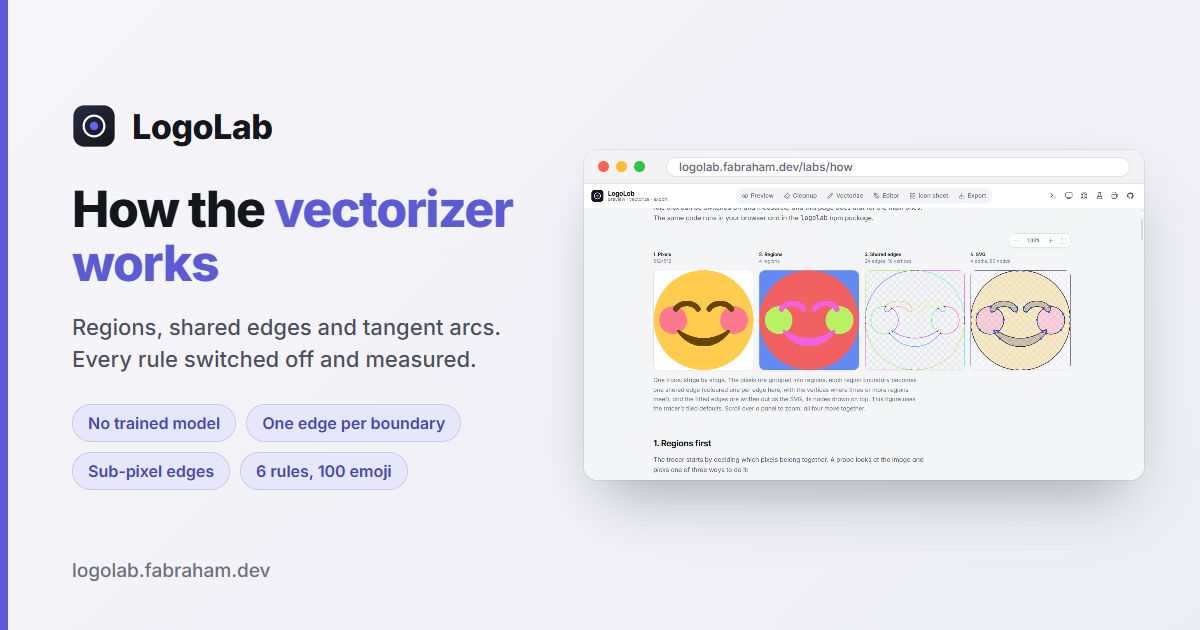
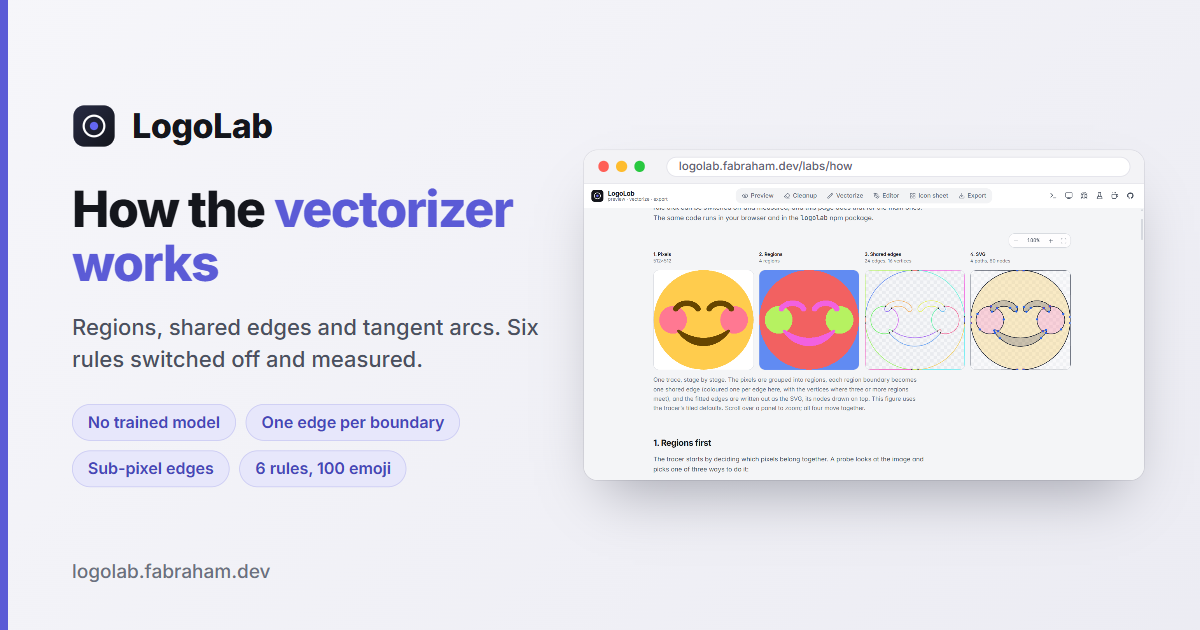
fix(labs): correct claims the audit found
- VTracer swept was picked on the in-sample corpora, not "these cases" or held-out ones
- /labs/how no longer says no rule was tuned on the held-out emoji: throughPairs and
  lineTangents were accepted on them
- the corner veto changes 13 of 100 emoji and costs a few kinks there
- a significant cell gets the decimals it needs instead of a bold "≈0"
- moved counts are per score; the footer names the fillets runs at 3469a57
- "every rule" copy says the main/six rules; card re-rendered
- Hoshyari et al. author order, Potrace GPL-2.0-or-later, §44 interval and --fit/SegGrid wording

diff --git a/src/components/labs/how/HowLab.tsx b/src/components/labs/how/HowLab.tsx
@@ -11,6 +11,7 @@ import { Figure, Section } from '../bench/articleParts'
 import { type CaseMode, DRAWING_ROWS, type ScoreRow, SvgArt } from '../bench/figure'
 import { HOW } from './howItWorks.generated'
 import type { HowRule } from './howTypes'
+import type { ShowPaired } from '../bench/showcaseTypes'
 
 /**
  * /labs/how: how the tracer works, one rule at a time.
@@ -72,6 +73,15 @@ const worse = better
 const fmt = (v: number | null, d: number): string => (v === null ? '—' : v.toFixed(d))
 const sign = (v: number, d: number): string =>
   Math.abs(v) < 0.5 * 10 ** -d ? '≈0' : `${v > 0 ? '+' : ''}${v.toFixed(d)}`
+/** Decimals for a paired cell: a significant change gets places until neither its mean nor its
+ *  interval ends round to zero, or a bold cell would read "≈0 [-0.001, -0.000]". */
+const placesFor = (c: ShowPaired, d: number): number => {
+  if (!c.significant) return d
+  const vals = [c.meanDiff, c.lo, c.hi].filter((v): v is number => typeof v === 'number')
+  let p = d
+  while (p < d + 3 && vals.some((v) => Math.abs(v) < 0.5 * 10 ** -p)) p++
+  return p
+}
 
 const A = ({ href, children }: { href: string; children: ReactNode }) => (
   <a className="text-accent underline-offset-2 hover:underline" href={href} target="_blank" rel="noreferrer">
@@ -176,8 +186,9 @@ export default function HowLab() {
         }
         after={
           <p>
-            On emoji the veto almost never fires. It exists for art like this checkerboard: with it off, the small cells
-            in the lower-right quarter are close enough to circles for the snap to take them for circles.
+            On the emoji it changes 13 of the 100 traces, and there it costs a little: with it on they carry slightly
+            more kinks and colour error. It exists for art like this checkerboard: with it off, the small cells in the
+            lower-right quarter are close enough to circles for the snap to take them for circles.
           </p>
         }
       />
@@ -290,7 +301,7 @@ export default function HowLab() {
           emoji. The table gives the mean change per icon with the rule off, and a 95% interval from a paired bootstrap.
           The arrow on each column says which way is better, and a rule helps where switching it off moves a score
           against the arrow. Bold marks a change whose interval excludes zero, and the small number after the interval
-          is how many of the {HOW.heldOutCases} emoji the rule changes at all.
+          is how many of the {HOW.heldOutCases} emoji that score changes on.
         </p>
         <WorthTable />
         <p>
@@ -298,8 +309,9 @@ export default function HowLab() {
           <Link className="text-accent underline-offset-2 hover:underline" to="/labs/bench">
             the benchmark
           </Link>
-          , which no rule was tuned on. Each rule was built against the in-sample test cases, so on these emoji a rule
-          can move fewer cases than it was written for, or none.
+          . Most rules were built against the in-sample test cases, so on these emoji a rule can move fewer cases than
+          it was written for, or none. Two were not: through junctions and line tangents were reviewed and accepted on
+          these same emoji, so their rows are not out-of-sample evidence.
         </p>
       </Section>
 
@@ -356,7 +368,7 @@ export default function HowLab() {
             . ACM TOG (SIGGRAPH Asia), 2017.
           </li>
           <li>
-            S. Hoshyari, E. A. Dominici, A. Sheffer, N. Carr, D. Ceylan, Z. Wang, I.-C. Shen.{' '}
+            S. Hoshyari, E. A. Dominici, A. Sheffer, N. Carr, Z. Wang, D. Ceylan, I.-C. Shen.{' '}
             <A href="https://doi.org/10.1145/3197517.3201312">
               Perception-driven semi-structured boundary vectorization
             </A>
@@ -417,8 +429,9 @@ export default function HowLab() {
         <A href="https://creativecommons.org/licenses/by/4.0/">CC-BY 4.0</A> (
         <A href="https://github.com/jdecked/twemoji">github.com/jdecked/twemoji</A>), via StarVector’s SVG-Bench. The
         traces are modified versions: rasterized and re-vectorized. Measured with {HOW.version} at {HOW.res} px, run{' '}
-        {HOW.base} and its ablation runs, {new Date(HOW.date).toISOString().slice(0, 10)}. The test fixtures are
-        LogoLab’s own.
+        {HOW.base} and its ablation runs, {new Date(HOW.date).toISOString().slice(0, 10)}. The rounded-polygon row pairs
+        runs traced at 3469a57, whose LogoLab output is byte-identical to {HOW.base}’s. The test fixtures are LogoLab’s
+        own.
       </p>
     </article>
   )
@@ -473,8 +486,8 @@ function Census({ r }: { r: HowRule }) {
   return (
     <p>
       Over the {HOW.heldOutCases} held-out emoji, switching it off changes the {m.label.toLowerCase()} on {c.moved} of
-      them, by {sign(c.meanDiff, m.mean)}
-      {m.unit ?? ''} per icon on average [{c.lo?.toFixed(m.mean)}, {c.hi?.toFixed(m.mean)}].
+      them, by {sign(c.meanDiff, placesFor(c, m.mean))}
+      {m.unit ?? ''} per icon on average [{c.lo?.toFixed(placesFor(c, m.mean))}, {c.hi?.toFixed(placesFor(c, m.mean))}].
     </p>
   )
 }
@@ -516,9 +529,9 @@ function WorthTable() {
                       <span className="text-faint">no change</span>
                     ) : (
                       <>
-                        {sign(c.meanDiff, d)}{' '}
+                        {sign(c.meanDiff, placesFor(c, d))}{' '}
                         <span className="text-[0.62rem] font-normal text-faint">
-                          [{c.lo?.toFixed(d)}, {c.hi?.toFixed(d)}] · {c.moved}
+                          [{c.lo?.toFixed(placesFor(c, d))}, {c.hi?.toFixed(placesFor(c, d))}] · {c.moved}
                         </span>
                       </>
                     )}
@@ -590,8 +603,8 @@ function PipelineFigure() {
       </LabZoomContext.Provider>
       <figcaption className="mt-3 max-w-[72ch] text-[0.85rem] leading-relaxed text-muted">
         The stages of one trace: the pixels are grouped into regions, each region boundary becomes one shared edge
-        (coloured one per edge here, with the vertices where three or more regions meet), and the fitted edges are
-        written out as the SVG, its nodes drawn on top. This figure uses the tracer’s tiled defaults. Scroll over a
+        (coloured one per edge here, with a dot where edges meet, inside or at the image border), and the fitted edges
+        are written out as the SVG, its nodes drawn on top. This figure uses the tracer’s tiled defaults. Scroll over a
         panel to zoom; all four move together.
       </figcaption>
     </figure>

diff --git a/src/components/labs/bench/Article.tsx b/src/components/labs/bench/Article.tsx
@@ -214,9 +214,9 @@ export function Article({ onExplore }: { onExplore?: () => void }) {
             </li>
             <li>
               LogoLab runs as its MCP server ships, with no per-image tuning. VTracer runs at its defaults and at the
-              best of a 54-configuration sweep on these cases. StarVector uses the generation settings from its own
-              repository; the 8B model does not fit in 16 GB of GPU memory. Potrace gets a binarised image, as in
-              SVG-Bench.
+              best of a 54-configuration sweep picked on the in-sample cases only. StarVector uses the generation
+              settings from its own repository; the 8B model does not fit in 16 GB of GPU memory. Potrace gets a
+              binarised image, as in SVG-Bench.
             </li>
             <li>
               A file that fails to parse or render counts as a failure and stays in the results. Comparisons are paired

diff --git a/src/lib/seo/routeCopy.ts b/src/lib/seo/routeCopy.ts
@@ -142,7 +142,7 @@ export const ROUTE_PAGES: RoutePage[] = [
       'How LogoLab turns a flat icon into an SVG without a trained model: regions, one shared edge per boundary, sub-pixel edges, corners, rounded shapes and junctions. Each rule is shown switched off and on, with what it is worth on 100 held-out emoji.',
     h1: 'How the vectorizer works',
     intro:
-      'LogoLab tries to recover the drawing a picture was made from. Every step is an explicit rule, and this page switches each one off to show what it does.',
+      'LogoLab tries to recover the drawing a picture was made from. Every step is an explicit rule, and this page switches the main ones off to show what they do.',
     points: [
       'Pixels are grouped into regions by flat colour, by an ink cut, or by a smoothness segmentation for gradients.',
       'Every boundary between two regions is one shared edge, so shapes cannot leave gaps or overlap.',

diff --git a/src/components/labs/bench/benchData.ts b/src/components/labs/bench/benchData.ts
@@ -228,7 +228,7 @@ export const TOOL_REFS: Record<string, ToolRef> = {
     paper: 'P. Selinger. Potrace: a polygon-based tracing algorithm. 2003.',
     paperUrl: 'https://potrace.sourceforge.net/potrace.pdf',
     code: 'https://potrace.sourceforge.net/',
-    license: 'GPL-2.0',
+    license: 'GPL-2.0-or-later',
   },
   autotrace: { name: 'AutoTrace', code: 'https://github.com/autotrace/autotrace', license: 'GPL-2.0' },
   imagetracer: {
@@ -292,7 +292,7 @@ export const TOOL_INFO: Record<string, ToolInfo> = {
     label: 'VTracer swept',
     family: 'external',
     blurb:
-      'The best of a 54-config sweep of VTracer on held-out cases (bench/compare/sweepVtracer.ts): -p 6 -g 8 -f 2, cutout.',
+      'The best of a 54-config sweep of VTracer picked on the in-sample corpora only (bench/compare/sweepVtracer.ts): -p 6 -g 8 -f 2, cutout.',
   },
   'starvector-1b': {
     label: 'StarVector-1B',

diff --git a/scripts/og/card.html b/scripts/og/card.html
@@ -95,7 +95,7 @@
         },
         'labs/how': {
           h1: 'How the <em>vectorizer works</em>',
-          sub: 'Regions, shared edges and tangent arcs. Every rule switched off and measured.',
+          sub: 'Regions, shared edges and tangent arcs. Six rules switched off and measured.',
           chips: ['No trained model', 'One edge per boundary', 'Sub-pixel edges', '6 rules, 100 emoji'],
         },
         preview: {

diff --git a/docs/vectorization-benchmarks.md b/docs/vectorization-benchmarks.md
@@ -8191,13 +8191,14 @@ Off minus on, mean per icon over the 100 held-out emoji [95% CI] · cases moved:
 | fillets | +0.009 [0.006, 0.013] · 47 | +0.006 [0.005, 0.008] · 47 | −2.4 [−3.0, −1.8] · 46 | +1.0 [0.6, 1.5] · 27 |
 | throughPairs | +0.005 [0.002, 0.009] · 72 | +0.004 [0.001, 0.007] · 72 | +1.3 [0.1, 2.3] · 56 | +2.3 [1.8, 2.8] · 59 |
 | junctionReseat | −0.003 [−0.005, −0.002] · 53 | −0.002 [−0.003, −0.001] · 53 | +0.2 [−0.3, 0.6] · 32 | −0.2 [−0.4, 0.1] · 27 |
-| lineTangents | −0.001 [−0.003, 0.001] · 89 | −0.005 [−0.008, −0.002] · 89 | −0.3 [−0.8, 0.1] · 52 | +1.8 [1.5, 2.2] · 69 |
+| lineTangents | −0.001 [−0.003, 0.001] · 89 | −0.005 [−0.008, −0.002] · 89 | −0.3 [−0.8, 0.1] · 52 | +1.8 [1.4, 2.2] · 69 |
 
 * **The re-seat (§10.4) does not pay on the held-out set.** Switching it off is slightly
   BETTER on ΔE and edge error (both intervals exclude zero, both tiny) and neutral on nodes
   and kinks. It helps in-sample (`petals`: 41 → 36 nodes, 2 → 0 kinks). A candidate for a
   narrower trigger, not removed.
-* **The corner veto almost never fires on emoji** (corner recovery moves on 1 case). On
+* **The corner veto changes 13 of the 100 emoji and costs a little there** (with it on,
+  slightly more kinks and ΔE; corner recovery moves on 1 case). On
   `checker` it decides the result: off, the fine quarter melts into dots (ΔE 4.60 vs 0.00,
   3522 vs 3556 corners kept).
 * **Rounded polygons and line tangents are trades:** fillets +2.4 nodes per icon for −1.0
@@ -8206,10 +8207,13 @@ Off minus on, mean per icon over the 100 held-out emoji [95% CI] · cases moved:
   `fillets` from the dials AFTER spreading `DEFAULT_PLANAR_FIT`, so the override was
   overwritten. It now ANDs the default (true), so production is unchanged: `how-base`
   (logolab-auto at `3469a57`) is byte-identical to `v6`'s 156 LogoLab SVGs (`cmp`), and the
-  fillets pair is `how-base` ⇄ `abl-fillets`. `lineCost` and `smoothPasses` are still
-  computed there and cannot be overridden with `--fit`.
+  fillets pair is `how-base` ⇄ `abl-fillets`. `smoothPasses` is still computed there and
+  ignores `--fit`; `lineCost` is overridden on gradient traces only.
+* **Not every row is out-of-sample.** throughPairs (§42.7) and lineTangents (§42.9) were
+  reviewed and accepted on these same 100 emoji, so their rows describe the set they were
+  tuned on. The other four were built on the in-sample fixtures.
 
 Also fixed while running these: `SegGrid` (geomScore) sized its hash at 8 px cells over the
 whole bounding box, and an OmniSVG output with one coordinate at 40004 in a 200-unit viewBox
 asked for ~160M bins ("Invalid array length", the v6 render-failed row). The cell now grows
-to keep ≤ 2²⁰ bins; at the rasters scored here it stays 8, so no other score moves.
+with the box's area, to about 2²⁰ bins on a square box (a long thin one still gets more); at the rasters scored here it stays 8, so no other score moves.
